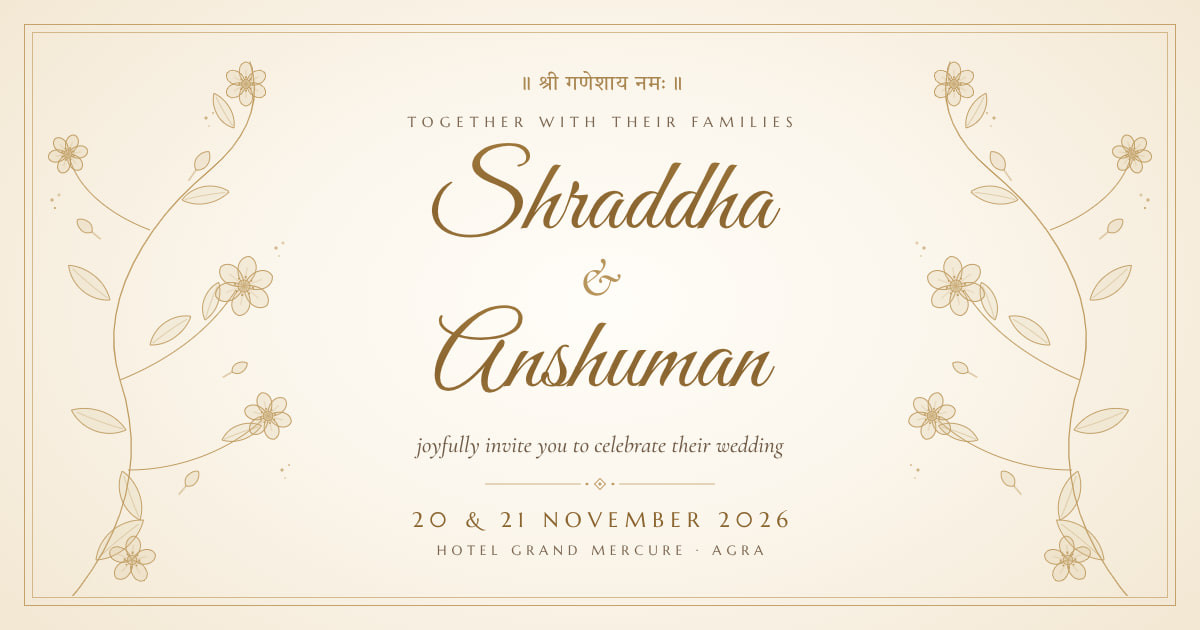
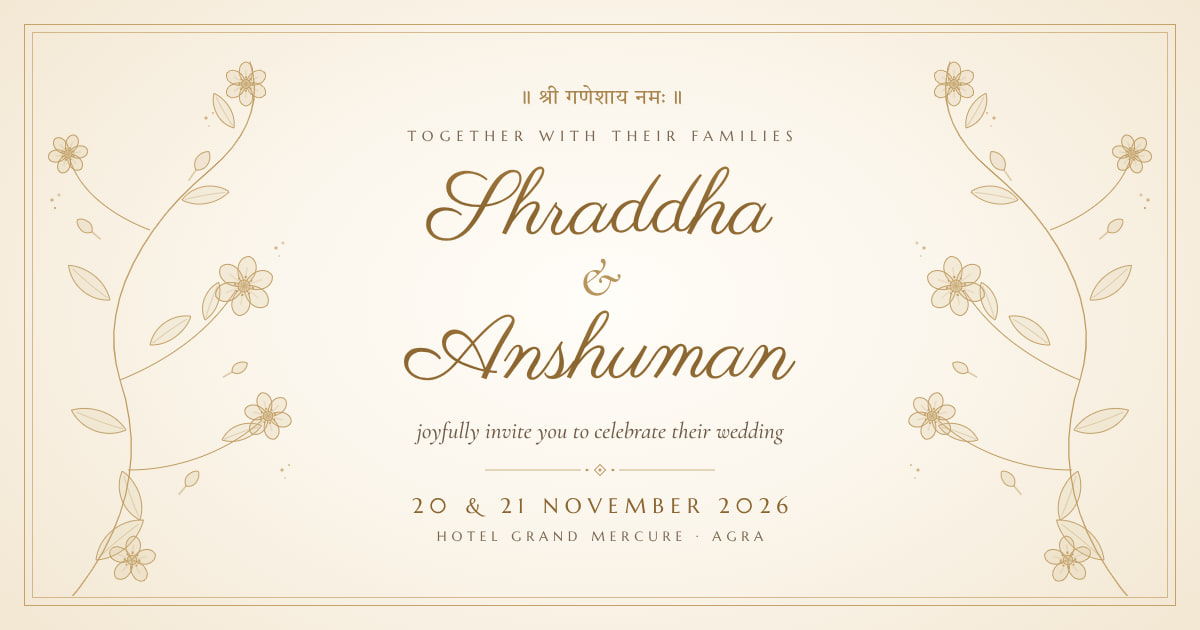
Preview card: set the names in Parisienne so the A reads as a capital
Great Vibes' capital A is a looped form that reads as a large lowercase
"a" in "Anshuman". Parisienne keeps the same weight and feel with an
unmistakable capital A, and holds up better in WhatsApp's small square
thumbnail than the hairline Pinyon Script.

Image re-exported and the URL bumped to ?v=3.

Claude-Session: https://claude.ai/code/session_01WWPHhS5Mm2WBbDgydzLaXw

Changed region(s): [[0.3392, 0.1206, 0.6475, 0.3921], [0.3392, 0.6635, 0.6783, 0.8746], [0.3392, 0.4825, 0.6783, 0.6333]]

diff --git a/scripts/og-invitation/card.html b/scripts/og-invitation/card.html
@@ -16,7 +16,7 @@
 -->
 <link rel="preconnect" href="https://fonts.googleapis.com">
 <link rel="preconnect" href="https://fonts.gstatic.com" crossorigin>
-<link href="https://fonts.googleapis.com/css2?family=Cormorant+Garamond:ital,wght@1,500&family=Great+Vibes&family=Marcellus&family=Tiro+Devanagari+Hindi&display=block" rel="stylesheet">
+<link href="https://fonts.googleapis.com/css2?family=Cormorant+Garamond:ital,wght@1,500&family=Parisienne&family=Marcellus&family=Tiro+Devanagari+Hindi&display=block" rel="stylesheet">
 <style>
 *{margin:0;padding:0;box-sizing:border-box}
 html,body{width:1200px;height:630px;overflow:hidden}
@@ -31,7 +31,7 @@ body{position:relative;background:
 .col{position:absolute;left:300px;width:600px;top:36px;height:558px;display:flex;flex-direction:column;align-items:center;justify-content:center;text-align:center}
 .shri{font-family:"Tiro Devanagari Hindi";font-size:21px;color:#a8844f;letter-spacing:.04em}
 .eyebrow{font-family:"Marcellus";font-size:14.5px;letter-spacing:.42em;color:#7a6550;margin-top:14px;padding-left:.42em}
-.name{font-family:"Great Vibes";font-size:104px;line-height:1;
+.name{font-family:"Parisienne";font-size:90px;line-height:1;
   background:linear-gradient(180deg,#a37c3e 0%,#8a6530 55%,#b08a4c 100%);-webkit-background-clip:text;color:transparent;
   padding:.3em .35em;margin:-.3em 0}
 .n1{margin-top:calc(22px - .3em)}

diff --git a/app/layout.tsx b/app/layout.tsx
@@ -51,7 +51,7 @@ const { site } = weddingConfig;
 /* Bump `v` whenever the image changes: WhatsApp caches images by URL. */
 /* ------------------------------------------------------------------ */
 
-const OG_IMAGE_PATH = "/og/shraddha-anshuman-wedding-invitation.jpg?v=2";
+const OG_IMAGE_PATH = "/og/shraddha-anshuman-wedding-invitation.jpg?v=3";
 
 const SHARE_TITLE = "Shraddha & Anshuman | Wedding Invitation 💍";
 const SHARE_DESCRIPTION =
